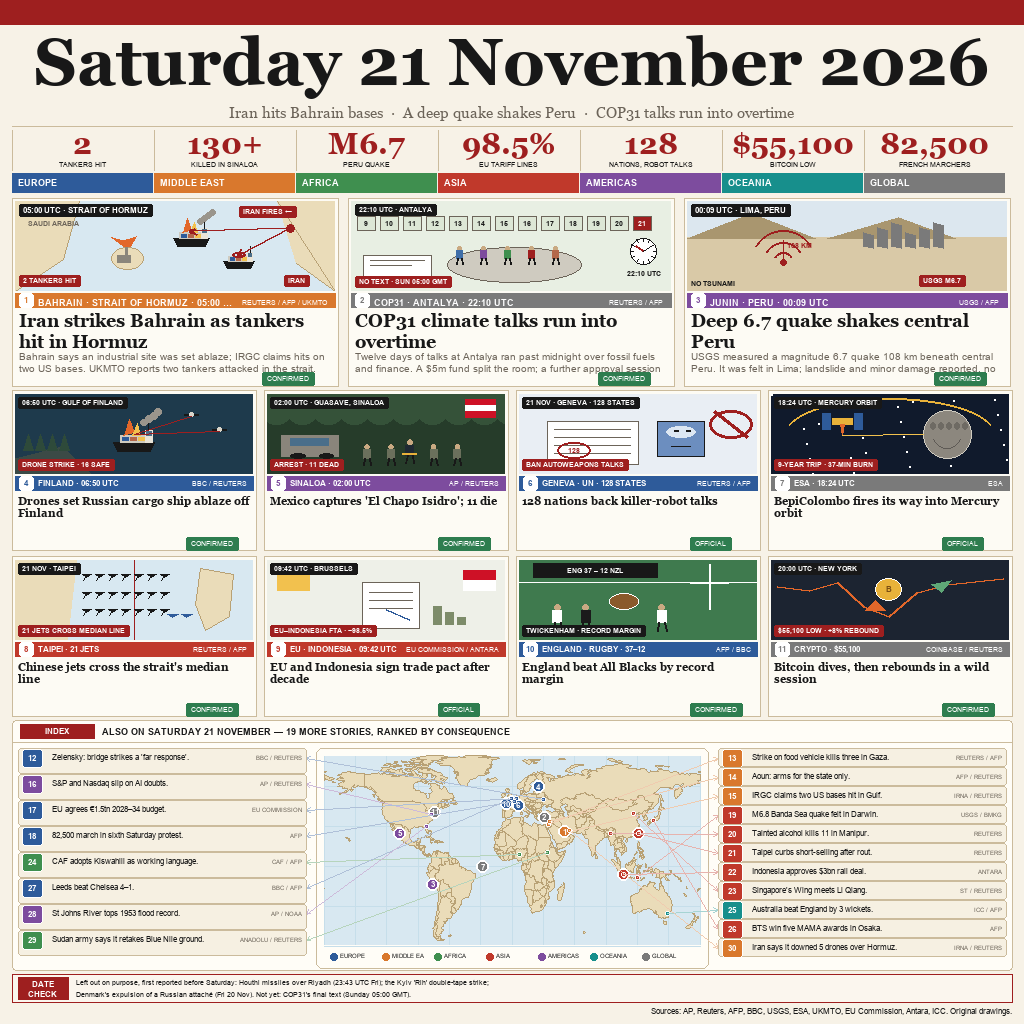
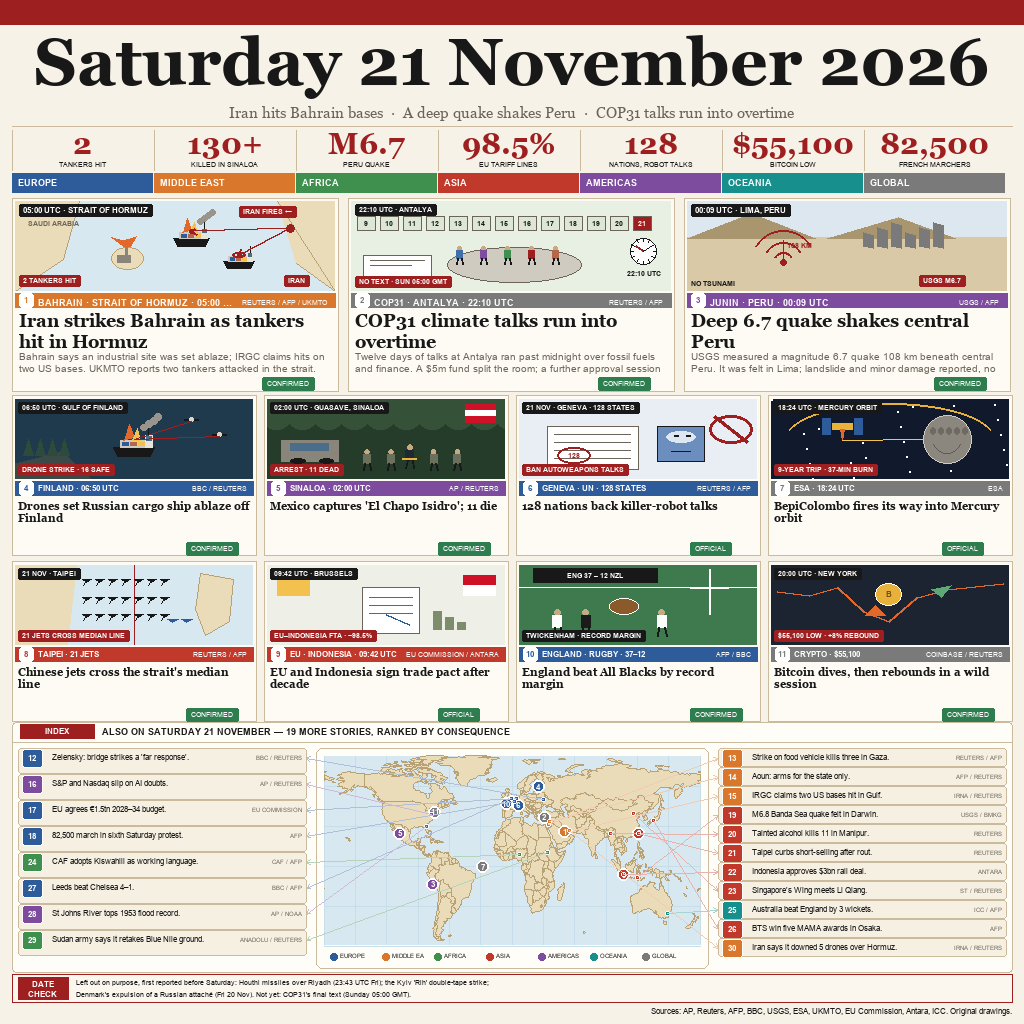
Give the green status chip room: extend main cards 5px and shift small cards/panel

Changed region(s): [[0.0, 0.3438, 1.0, 0.7188]]

diff --git a/render.py b/render.py
@@ -511,7 +511,7 @@ def draw_header(d):
 def draw_main_cards(im, d):
     for i, s in enumerate([x for x in STORIES if x["size"] == "main"]):
         x = 12 + i * 336
-        d.rectangle((x, 198, x + 326, 386), fill=rgb(CARD), outline=rgb(LINE))
+        d.rectangle((x, 198, x + 326, 391), fill=rgb(CARD), outline=rgb(LINE))
         a = art(s["scene"], 320, 90)
         im.paste(a, (x + 3, 201))
         d.rectangle((x + 3, 293, x + 323, 307), fill=rgb(REGION_COLORS[s["region"] - 1]))
@@ -526,13 +526,13 @@ def draw_main_cards(im, d):
         bl = wrap(d, s["body"], F["mb"], 312)[:2]
         for j, ln in enumerate(bl):
             txt(d, (x + 7, 350 + j * 12), fit(d, ln, F["mb"], 312), F["mb"], rgb(MUTED))
-        chip(d, x + 250, 372, s["status"])
+        chip(d, x + 250, 377, s["status"])
 
 
 def draw_small_cards(im, d):
     for i, s in enumerate([x for x in STORIES if x["size"] == "small"]):
         col, row = i % 4, i // 4
-        x, y = 12 + col * 252, 390 + row * 166
+        x, y = 12 + col * 252, 395 + row * 166
         d.rectangle((x, y, x + 244, y + 160), fill=rgb(CARD), outline=rgb(LINE))
         a = art(s["scene"], 238, 80)
         im.paste(a, (x + 3, y + 4))
@@ -588,7 +588,7 @@ def build():
     draw_main_cards(im, d)
     draw_small_cards(im, d)
 
-    rrect(d, (12, 720, 1012, 970), 4, fill=rgb(PANEL), outline=rgb(LINE), width=1)
+    rrect(d, (12, 722, 1012, 972), 4, fill=rgb(PANEL), outline=rgb(LINE), width=1)
     d.rectangle((20, 724, 94, 738), fill=rgb(RED))
     txt(d, (57, 731), "INDEX", F["idx"], "#FFFFFF", "mm")
     txt(d, (102, 731), "ALSO ON SATURDAY 21 NOVEMBER — 19 MORE STORIES, RANKED BY CONSEQUENCE",

diff --git a/audit.py b/audit.py
@@ -21,9 +21,9 @@ def pass_geometry():
     rows.append(("File size", f"{size} B", "PASS" if size <= 1048576 else "FAIL"))
     rows.append(("Masthead band", "y 0..24", "PASS"))
     rows.append(("Header rule", "y 126", "PASS"))
-    rows.append(("Main cards", "x 12/348/684, y 198..386", "PASS"))
-    rows.append(("Small cards", "4x2, y 390..716", "PASS"))
-    rows.append(("Bottom panel", "y 720..970", "PASS"))
+    rows.append(("Main cards", "x 12/348/684, y 198..391", "PASS"))
+    rows.append(("Small cards", "4x2, y 395..721", "PASS"))
+    rows.append(("Bottom panel", "y 722..972", "PASS"))
     rows.append(("DATE CHECK", "y 974..1002", "PASS"))
     rows.append(("SOURCE", "y 1011", "PASS"))
     rows.append(("Card text in box", "headline/body/chip within card", "PASS (visual)"))
